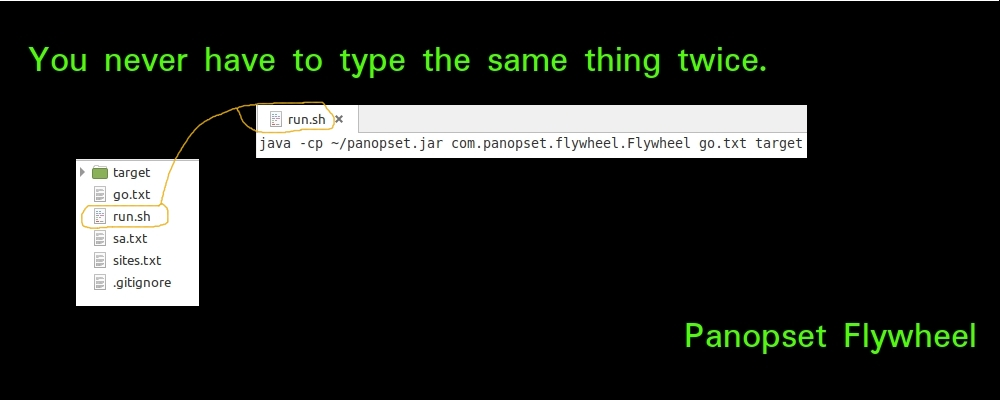
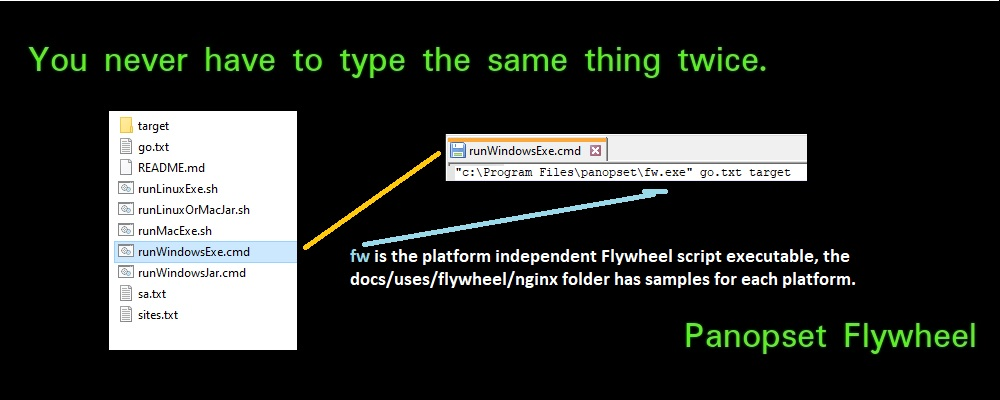
.

Changed region(s): [[0.062, 0.24, 0.868, 0.9], [0.465, 0.54, 0.527, 0.57], [0.372, 0.45, 0.403, 0.51]]

diff --git a/docs/uses/flywheel/nginx/README.md b/docs/uses/flywheel/nginx/README.md
@@ -1,0 +1,49 @@
+# Flywheel script to create initial nginx config files
+
+If you want to set up several web sites on a single server,
+using [nginx server blocks](https://www.digitalocean.com/community/tutorials/how-to-install-nginx-on-ubuntu-20-04#step-5-%E2%80%93-setting-up-server-blocks-%28recommended%29),
+you need to create nearly identical nginx configuration files for each site hosted on that server.
+
+## Prerequisites
+
+If you have installed the Panopset Desktop Application Suite for your platform,
+there are no prerequisites.
+
+If you are using panopset.jar, you need:
+
+* Java 21 or better.
+* [panopset.jar](https://panopset.com/download.html) in your home directory.
+
+# Running this sample script
+
+## Using the installed fw executable
+
+### Linux
+
+    /opt/panopset/bin/fw go.txt target
+
+### Mac
+
+    /Applications/panopset.app/Contents/MacOS/fw go.txt target
+
+### Windows
+
+    "c:\Program Files\panopset\fw.exe" go.txt target
+
+## From the jar file, using your JVM
+
+### Linux and Mac
+
+    java -cp ~/panopset.jar fw go.txt target
+
+### Windows
+
+    java -cp %USERPROFILE%\panopset.jar fw go.txt target
+    
+# In General
+
+Any time you are faced with a tedious task that requires typing the same thing over and over
+again, consider trying Panopset Flywheel.  
+
+There are many other template engines out there, 
+but how many are [open source](https://github.com/panopset/home), extensible and freeform, with just seven easy to learn commands?

diff --git a/README.md b/README.md
@@ -21,3 +21,4 @@ The base directory for this project contains these scripts:
 * [Desktop Applications Build](docs/build.md).
 * [Website Deployment Manual](docs/deploy.md).
 * [Continuous Integration Manual](docs/ci.md)
+* [Samples](docs/uses/README.md)

diff --git a/docs/uses/gblrpl/priorLineCheck.md b/docs/uses/gblrpl/priorLineCheck.md
@@ -5,6 +5,8 @@
 
 Since [1.0.6](../../vh.md).
 
+__Global Replace__ is a tab under the Flywheel desktop application, see image below.
+
 ## A Situation
 
 You're coding along and your Sonar Lint plugin tells you you should remove the public

diff --git a/docs/uses/README.md b/docs/uses/README.md
@@ -1,0 +1,6 @@
+[home](../../README.md)
+
+# Samples
+
+* [Global Replace prior line check](./gblrpl/priorLineCheck.md) feature.
+* [nginx](./flywheel/nginx/README.md) domain configuration file generator.

diff --git a/docs/uses/flywheel/README.md b/docs/uses/flywheel/README.md
@@ -1,0 +1,5 @@
+[home](../../../README.md)
+
+# Flywheel Samples
+
+* [nginx](./nginx/README.md).  Create your initial /etc/nginx/sites-available files.
